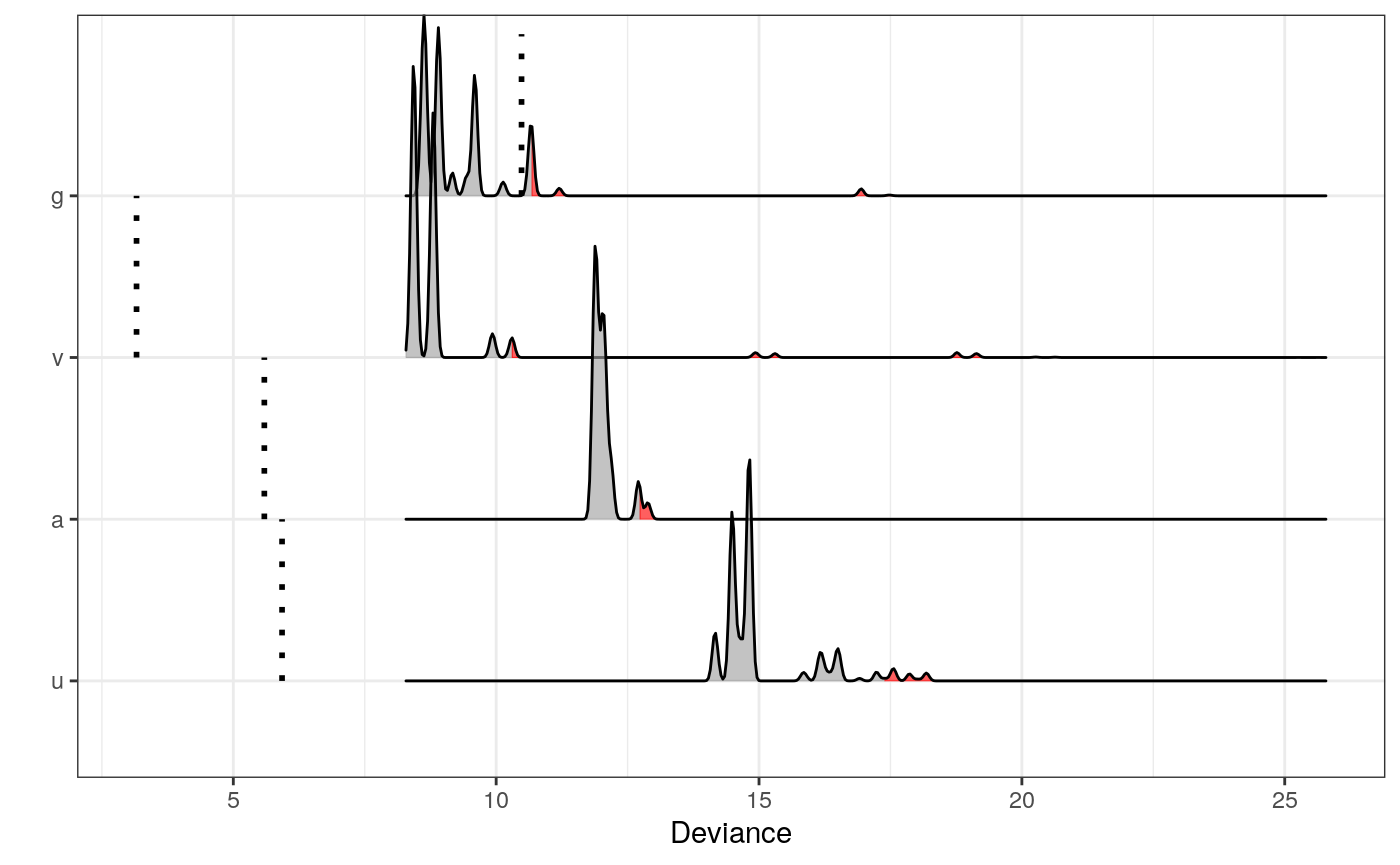
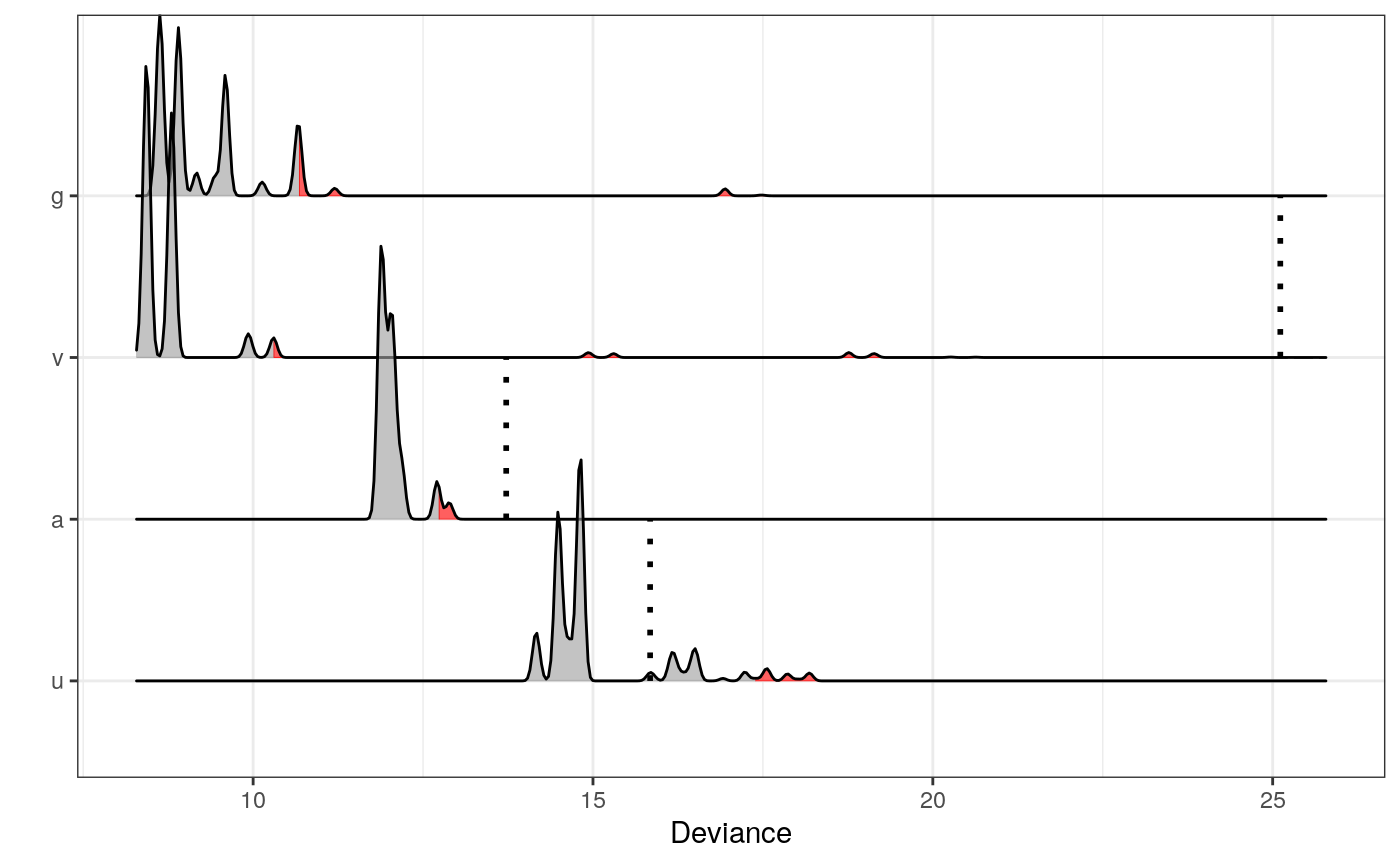
fixed docs

diff --git a/docs/index.html b/docs/index.html
@@ -230,14 +230,14 @@ z &lt;-<span class="st"> </span><span class="kw"><a href="https://dplyr.tidyvers
 <span class="co">#&gt;   Estimated variance: 2.5 </span>
 <span class="co">#&gt;     ---------------------------   </span>
 <span class="co">#&gt;   Critical value: 10.29936 </span>
-<span class="co">#&gt;   Deviance: 3.159159 </span>
-<span class="co">#&gt;   P-value: 1 </span>
+<span class="co">#&gt;   Deviance: 25.1124 </span>
+<span class="co">#&gt;   P-value: 3e-04 </span>
 <span class="co">#&gt;   Alpha: 0.05 </span>
 <span class="co">#&gt;   &lt;outlier, outlier_model, list&gt; </span>
 <span class="co">#&gt;  --------------------------------</span></code></pre></div>
 <p>Thus the car is declared an outlier on a <span class="math inline">\(0.05\)</span> significance level. We can visualize this by plotting the corresponding density of the deviance statistic as</p>
 <div class="sourceCode"><pre class="sourceCode r"><code class="sourceCode r"><span class="kw"><a href="https://www.rdocumentation.org/packages/graphics/topics/plot">plot</a></span>(m)</code></pre></div>
-<p><img src="reference/figures/README-unnamed-chunk-9-1.png" width="100%"> Since the observed deviance of the selected car, 3.1591589, is much larger than the critical value of 10.2993615 the car is declared an outlier. The red area represents the significance level (here <span class="math inline">\(\alpha = 0.05\)</span>).</p>
+<p><img src="reference/figures/README-unnamed-chunk-9-1.png" width="100%"> Since the observed deviance of the selected car, 25.1124022, is much larger than the critical value of 10.2993615 the car is declared an outlier. The red area represents the significance level (here <span class="math inline">\(\alpha = 0.05\)</span>).</p>
 </div>
 </div>
 <div id="multiple-tests" class="section level2">

diff --git a/docs/articles/genetic_example.html b/docs/articles/genetic_example.html
@@ -158,17 +158,17 @@ m  &lt;-<span class="st"> </span><span class="kw"><a href="../reference/fit_mixe
 ##   Simulations: 10000 
 ##   Variables: 302 
 ##   Observations: 1008 
-##   Estimated mean: 482.08 
-##   Estimated variance: 329.26 
+##   Estimated mean: 482.81 
+##   Estimated variance: 325.66 
 ##     ---------------------------   
-##   Critical value: 512.6256 
-##   Deviance: 3.716771 
-##   P-value: 1 
+##   Critical value: 513.6142 
+##   Deviance: 508.0499 
+##   P-value: 0.0853 
 ##   Alpha: 0.05 
 ##   &lt;mixed_outlier, outlier, outlier_model, list&gt; 
 ##  --------------------------------</code></pre>
 <div class="sourceCode"><pre class="sourceCode r"><code class="sourceCode r"><span class="kw"><a href="https://www.rdocumentation.org/packages/graphics/topics/plot">plot</a></span>(m)</code></pre></div>
-<p><img src="genetic_example_files/figure-html/unnamed-chunk-1-1.png" width="700"> Thus, <code>z</code> does not deviate significantly from the Europe database. The red area depicts the <span class="math inline">\(0.05\)</span> significance level and the dotted line is the observed deviance of <code>z</code> (3.7167714). This is not a surprise, since Americans and Europeans have many similarities.</p>
+<p><img src="genetic_example_files/figure-html/unnamed-chunk-1-1.png" width="700"> Thus, <code>z</code> does not deviate significantly from the Europe database. The red area depicts the <span class="math inline">\(0.05\)</span> significance level and the dotted line is the observed deviance of <code>z</code> (508.0498712). This is not a surprise, since Americans and Europeans have many similarities.</p>
 </div>
 <div id="references" class="section level1 unnumbered">
 <h1 class="hasAnchor">

diff --git a/docs/articles/outlier_intro.html b/docs/articles/outlier_intro.html
@@ -132,16 +132,6 @@
 <tbody>
 <tr class="odd">
 <td align="center">Rejected</td>
-<td align="center">Female</td>
-<td align="center">D</td>
-</tr>
-<tr class="even">
-<td align="center">Rejected</td>
-<td align="center">Male</td>
-<td align="center">B</td>
-</tr>
-<tr class="odd">
-<td align="center">Rejected</td>
 <td align="center">Male</td>
 <td align="center">D</td>
 </tr>
@@ -151,14 +141,24 @@
 <td align="center">B</td>
 </tr>
 <tr class="odd">
-<td align="center">Admitted</td>
+<td align="center">Rejected</td>
 <td align="center">Male</td>
-<td align="center">A</td>
+<td align="center">C</td>
 </tr>
 <tr class="even">
-<td align="center">Admitted</td>
+<td align="center">Rejected</td>
 <td align="center">Female</td>
 <td align="center">C</td>
+</tr>
+<tr class="odd">
+<td align="center">Rejected</td>
+<td align="center">Male</td>
+<td align="center">D</td>
+</tr>
+<tr class="even">
+<td align="center">Admitted</td>
+<td align="center">Male</td>
+<td align="center">D</td>
 </tr>
 </tbody>
 </table>

diff --git a/docs/articles/dermatitis.html b/docs/articles/dermatitis.html
@@ -172,8 +172,8 @@ m &lt;-<span class="st"> </span><span class="kw"><a href="../reference/fit_outli
   Estimated variance: 37.55 
     ---------------------------   
   Critical value: 53.86771 
-  Deviance: 1.976704 
-  P-value: 1 
+  Deviance: 50.51582 
+  P-value: 0.1053 
   Alpha: 0.05 
   &lt;outlier, outlier_model, list&gt; 
  --------------------------------</code></pre>
